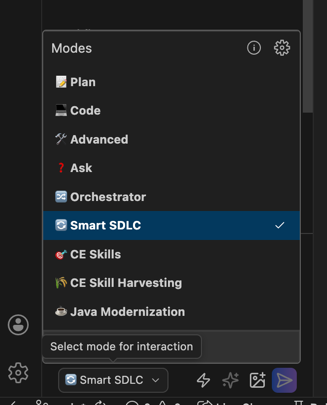
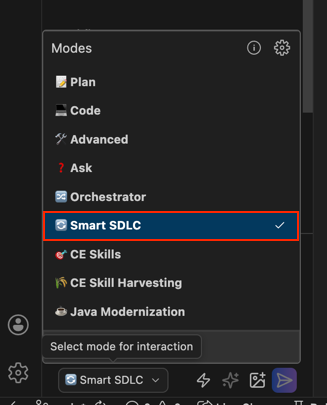
adding screenshot of Bobmode

Changed region(s): [[0.1223, 0.5037, 0.9174, 0.5926]]

diff --git a/Lab2/Java-modernization.md b/Lab2/Java-modernization.md
@@ -550,6 +550,9 @@ Do I have an jira board with a user story assigned to me?
 ---
 ### Main Workflow: See how the defined custom mode interacts with Jira MCP server and rules we have defined to perform Java modernization
 - Open Bob chat and chose the 'Smart SDLC' Mode
+
+![img_9.png](screenshots/img_9.png)
+
 - Now ask bob the following in the chat:
 ```text
 Retrieve the user story whose key is <YOUR-STORY-KEY eg: SCRUM-4> and implement it